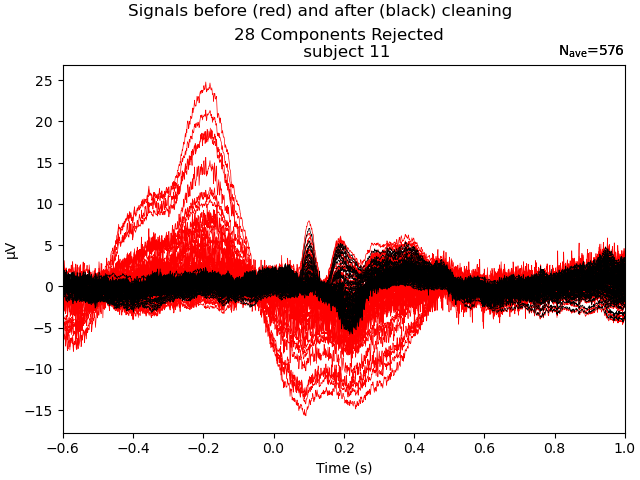
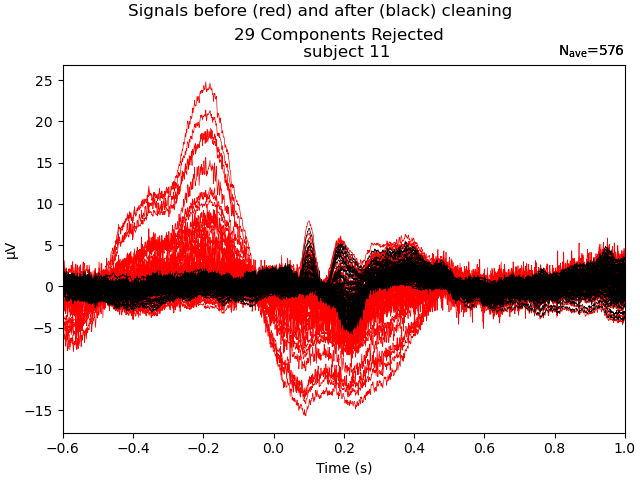
ica infomax

diff --git a/Main.py b/Main.py
@@ -210,6 +210,8 @@ epochs = mne.Epochs(raw,
                     )
 logging.info(f'{len(epochs)} Epoches created')
 
+
+epochs = mne.set_eeg_referance(epochs)
 #%% ICA
 
 #Fit ICA for >1Hz signal.
@@ -218,9 +220,11 @@ epochs_for_ica_fit = epochs.copy().filter(l_freq=1, h_freq=None)
 
 
 # Fit ICA 
-ica = mne.preprocessing.ICA(random_state = 100)
-ica.fit(epochs_for_ica_fit)
 #TODO Make sure ICA is fitted right for ica_label
+ica = mne.preprocessing.ICA(method='infomax', fit_params=dict(extended=True),random_state = 100)
+ica.fit(epochs_for_ica_fit)
+
+
 ic_labels = label_components(epochs_for_ica_fit, ica, method="iclabel")
 labels = ic_labels["labels"]
 exclude_idx = [
